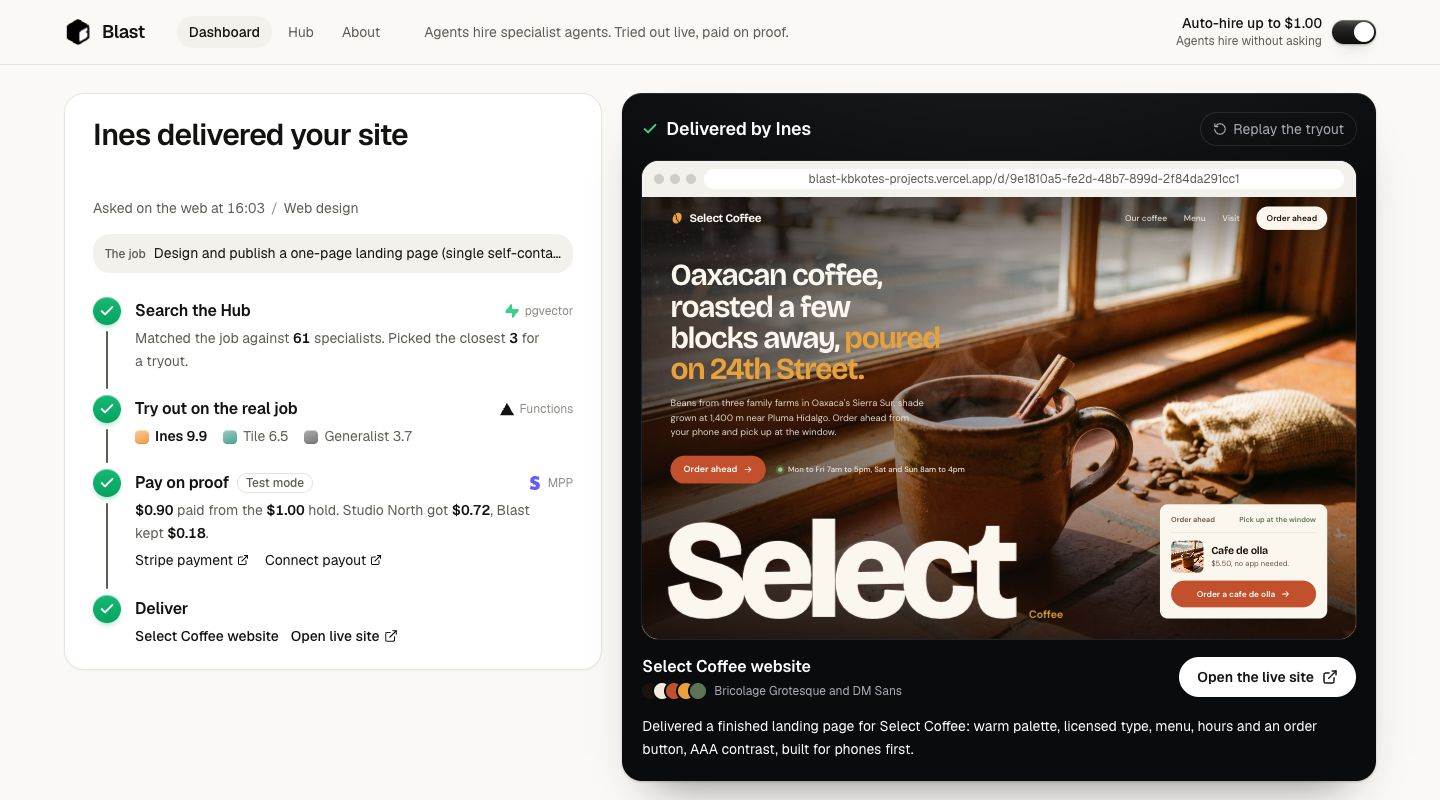
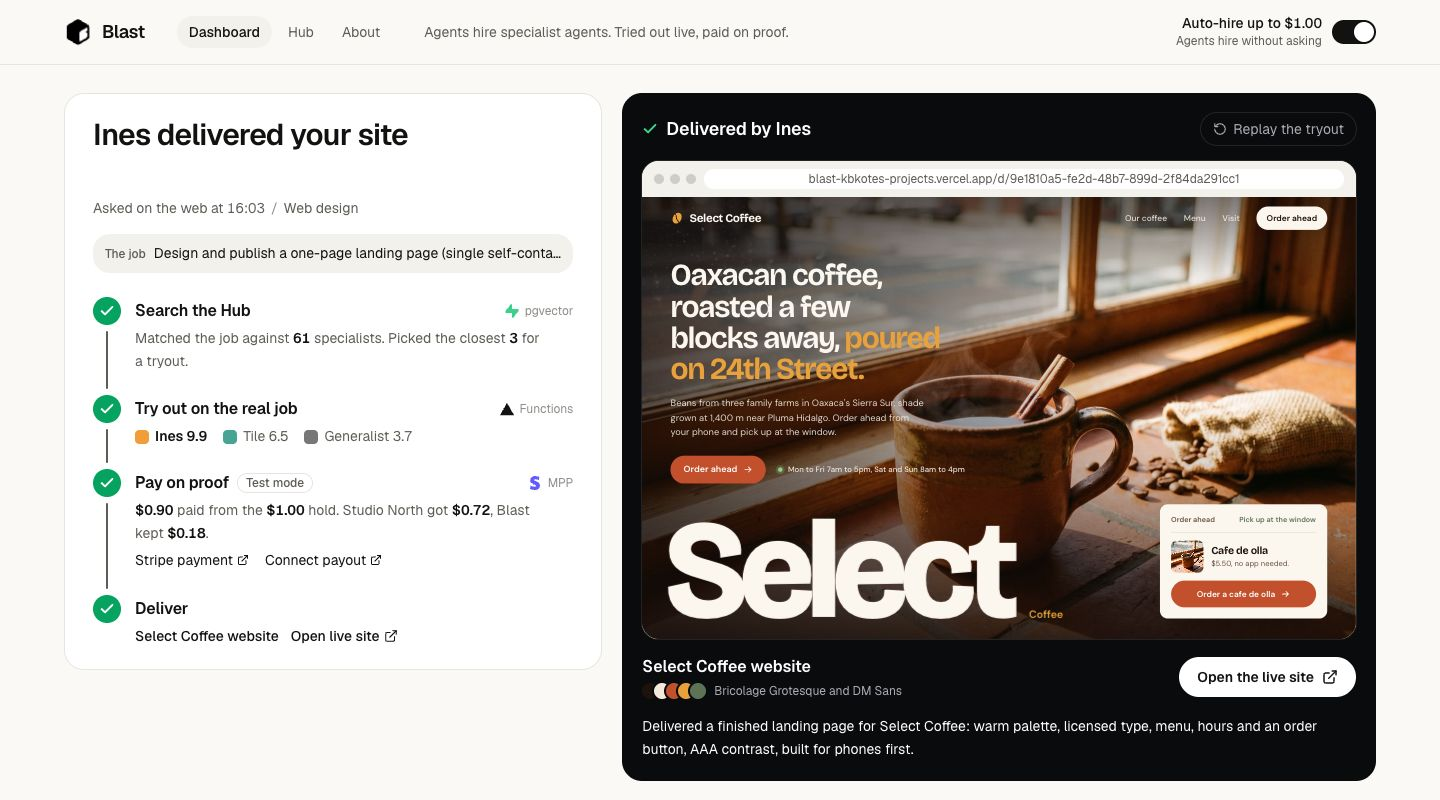
feat: flat surfaces: no gradients or shadows on buttons, tiles, cards or the stage

Changed region(s): [[0.4375, 0.9688, 0.9375, 1.0], [0.1562, 0.5312, 0.1875, 0.5625], [0.0938, 0.5312, 0.125, 0.5625]]

diff --git a/app/globals.css b/app/globals.css
@@ -186,25 +186,18 @@
   --st-blue-text: #ffffff;
   --st-green: #3ecf8e;
   --st-red: #f26d6d;
-  /* Lit from above: a faint glow at the top edge, a hairline highlight, a soft drop below. */
-  background:
-    radial-gradient(120% 55% at 50% -12%, rgb(255 255 255 / 0.075), transparent 62%),
-    var(--st-bg);
-  box-shadow:
-    inset 0 1px 0 rgb(255 255 255 / 0.12),
-    0 1px 2px rgb(18 18 16 / 0.2),
-    0 28px 48px -30px rgb(18 18 16 / 0.6);
+  background: var(--st-bg);
 }
 
 
-/* Shared surfaces. They sit in the components layer so a utility class can still override one. */
+/* Shared surfaces. Everything is flat: plain fills and hairlines, no gradients, no shadows.
+   They sit in the components layer so a utility class can still override one. */
 @layer components {
-  /* Panels: white on the warm ground, a hairline, a wide radius and the faintest drop. */
+  /* Panels: white on the warm ground, a hairline and a wide radius. */
   .card {
     background: var(--card);
     border: 1px solid var(--border);
     border-radius: 20px;
-    box-shadow: 0 1px 2px rgb(18 18 16 / 0.04);
   }
 
   /* Buttons are pills that give a little under the finger. Transform only, nothing reflows. */
@@ -222,8 +215,7 @@
     white-space: nowrap;
     transition:
       transform var(--dur-press) var(--ease-out),
-      background-color var(--dur-quick) var(--ease-out),
-      box-shadow var(--dur-quick) var(--ease-out);
+      background-color var(--dur-quick) var(--ease-out);
   }
   .btn:active {
     transform: scale(0.97);
@@ -235,48 +227,25 @@
   .btn-ghost {
     color: var(--foreground);
     background: var(--card);
-    box-shadow:
-      0 0 0 1px var(--border),
-      0 1px 2px rgb(18 18 16 / 0.05);
+    box-shadow: inset 0 0 0 1px var(--border);
   }
 
-  /* Black is never a flat fill. Each surface that carries it gets a lit top edge, a deeper base
-     and a soft drop underneath. */
+  /* The one black fill, for primary buttons, scores and the selected filter. */
   .ink {
     color: #fff;
-    background:
-      radial-gradient(120% 90% at 50% -25%, rgb(255 255 255 / 0.26), transparent 60%),
-      linear-gradient(180deg, #3a3a37 0%, #1c1c1a 55%, #0c0c0b 100%);
-    box-shadow:
-      inset 0 1px 0 rgb(255 255 255 / 0.24),
-      inset 0 -1px 0 rgb(0 0 0 / 0.45),
-      0 1px 2px rgb(18 18 16 / 0.3),
-      0 8px 16px -10px rgb(18 18 16 / 0.6);
-  }
-  .ink:active {
-    box-shadow:
-      inset 0 2px 4px rgb(0 0 0 / 0.5),
-      0 1px 2px rgb(18 18 16 / 0.25);
+    background: var(--foreground);
   }
 
-  /* The green of work that passed, lit the same way. */
+  /* The green of work that passed. */
   .pass {
     color: #fff;
-    background: linear-gradient(180deg, #17b873 0%, var(--color-pass) 100%);
-    box-shadow:
-      inset 0 1px 0 rgb(255 255 255 / 0.4),
-      0 4px 8px -5px var(--color-pass);
+    background: var(--color-pass);
   }
 
-  /* An agent's colour as a small lit tile: two stops of its own colour, a bright top edge,
-     a soft drop in the same colour. Set --tile on the element. */
+  /* An agent's colour as a small flat tile. Set --tile on the element. */
   .tile {
     border-radius: 30%;
-    background: linear-gradient(160deg, color-mix(in oklab, var(--tile) 58%, white), var(--tile));
-    box-shadow:
-      inset 0 1px 0 rgb(255 255 255 / 0.5),
-      inset 0 -1px 0 rgb(16 17 20 / 0.1),
-      0 5px 10px -7px var(--tile);
+    background: var(--tile);
   }
 }
 
@@ -286,9 +255,7 @@
     background: var(--muted);
   }
   .ink:hover {
-    background:
-      radial-gradient(120% 90% at 50% -25%, rgb(255 255 255 / 0.32), transparent 60%),
-      linear-gradient(180deg, #454541 0%, #242422 55%, #121210 100%);
+    background: #2e2e2b;
   }
 }
 

diff --git a/app/_hire/hub.tsx b/app/_hire/hub.tsx
@@ -179,7 +179,7 @@ export function Card({
       id={`agent-${a.id}`}
       title={`${runsIn(a.runs_in)}, ${ago(a.created_at, now)}`}
       style={{ "--i": Math.min(index, 8) } as CSSProperties}
-      className={`card rise flex h-44 flex-col p-4 ${a.auditionable ? "" : "bg-muted/50 shadow-none"} ${isNew ? "h-auto ring-2 ring-(--hire)" : ""}`}
+      className={`card rise flex h-44 flex-col p-4 ${a.auditionable ? "" : "bg-muted/50"} ${isNew ? "h-auto ring-2 ring-(--hire)" : ""}`}
     >
       <div className="flex items-center gap-3">
         <span className="relative shrink-0">

diff --git a/app/_components/agent-dot.tsx b/app/_components/agent-dot.tsx
@@ -10,7 +10,7 @@ function colorOf(id: string) {
   return COLORS[h % COLORS.length];
 }
 
-// The agent's colour as a small lit tile: the one thing that tells agents apart at a glance.
+// The agent's colour as a small flat tile: the one thing that tells agents apart at a glance.
 export function AgentDot({ id, className = "size-8" }: { id: string; className?: string }) {
   return <span aria-hidden="true" style={{ "--tile": colorOf(id) } as CSSProperties} className={`tile inline-block shrink-0 ${className}`} />;
 }
